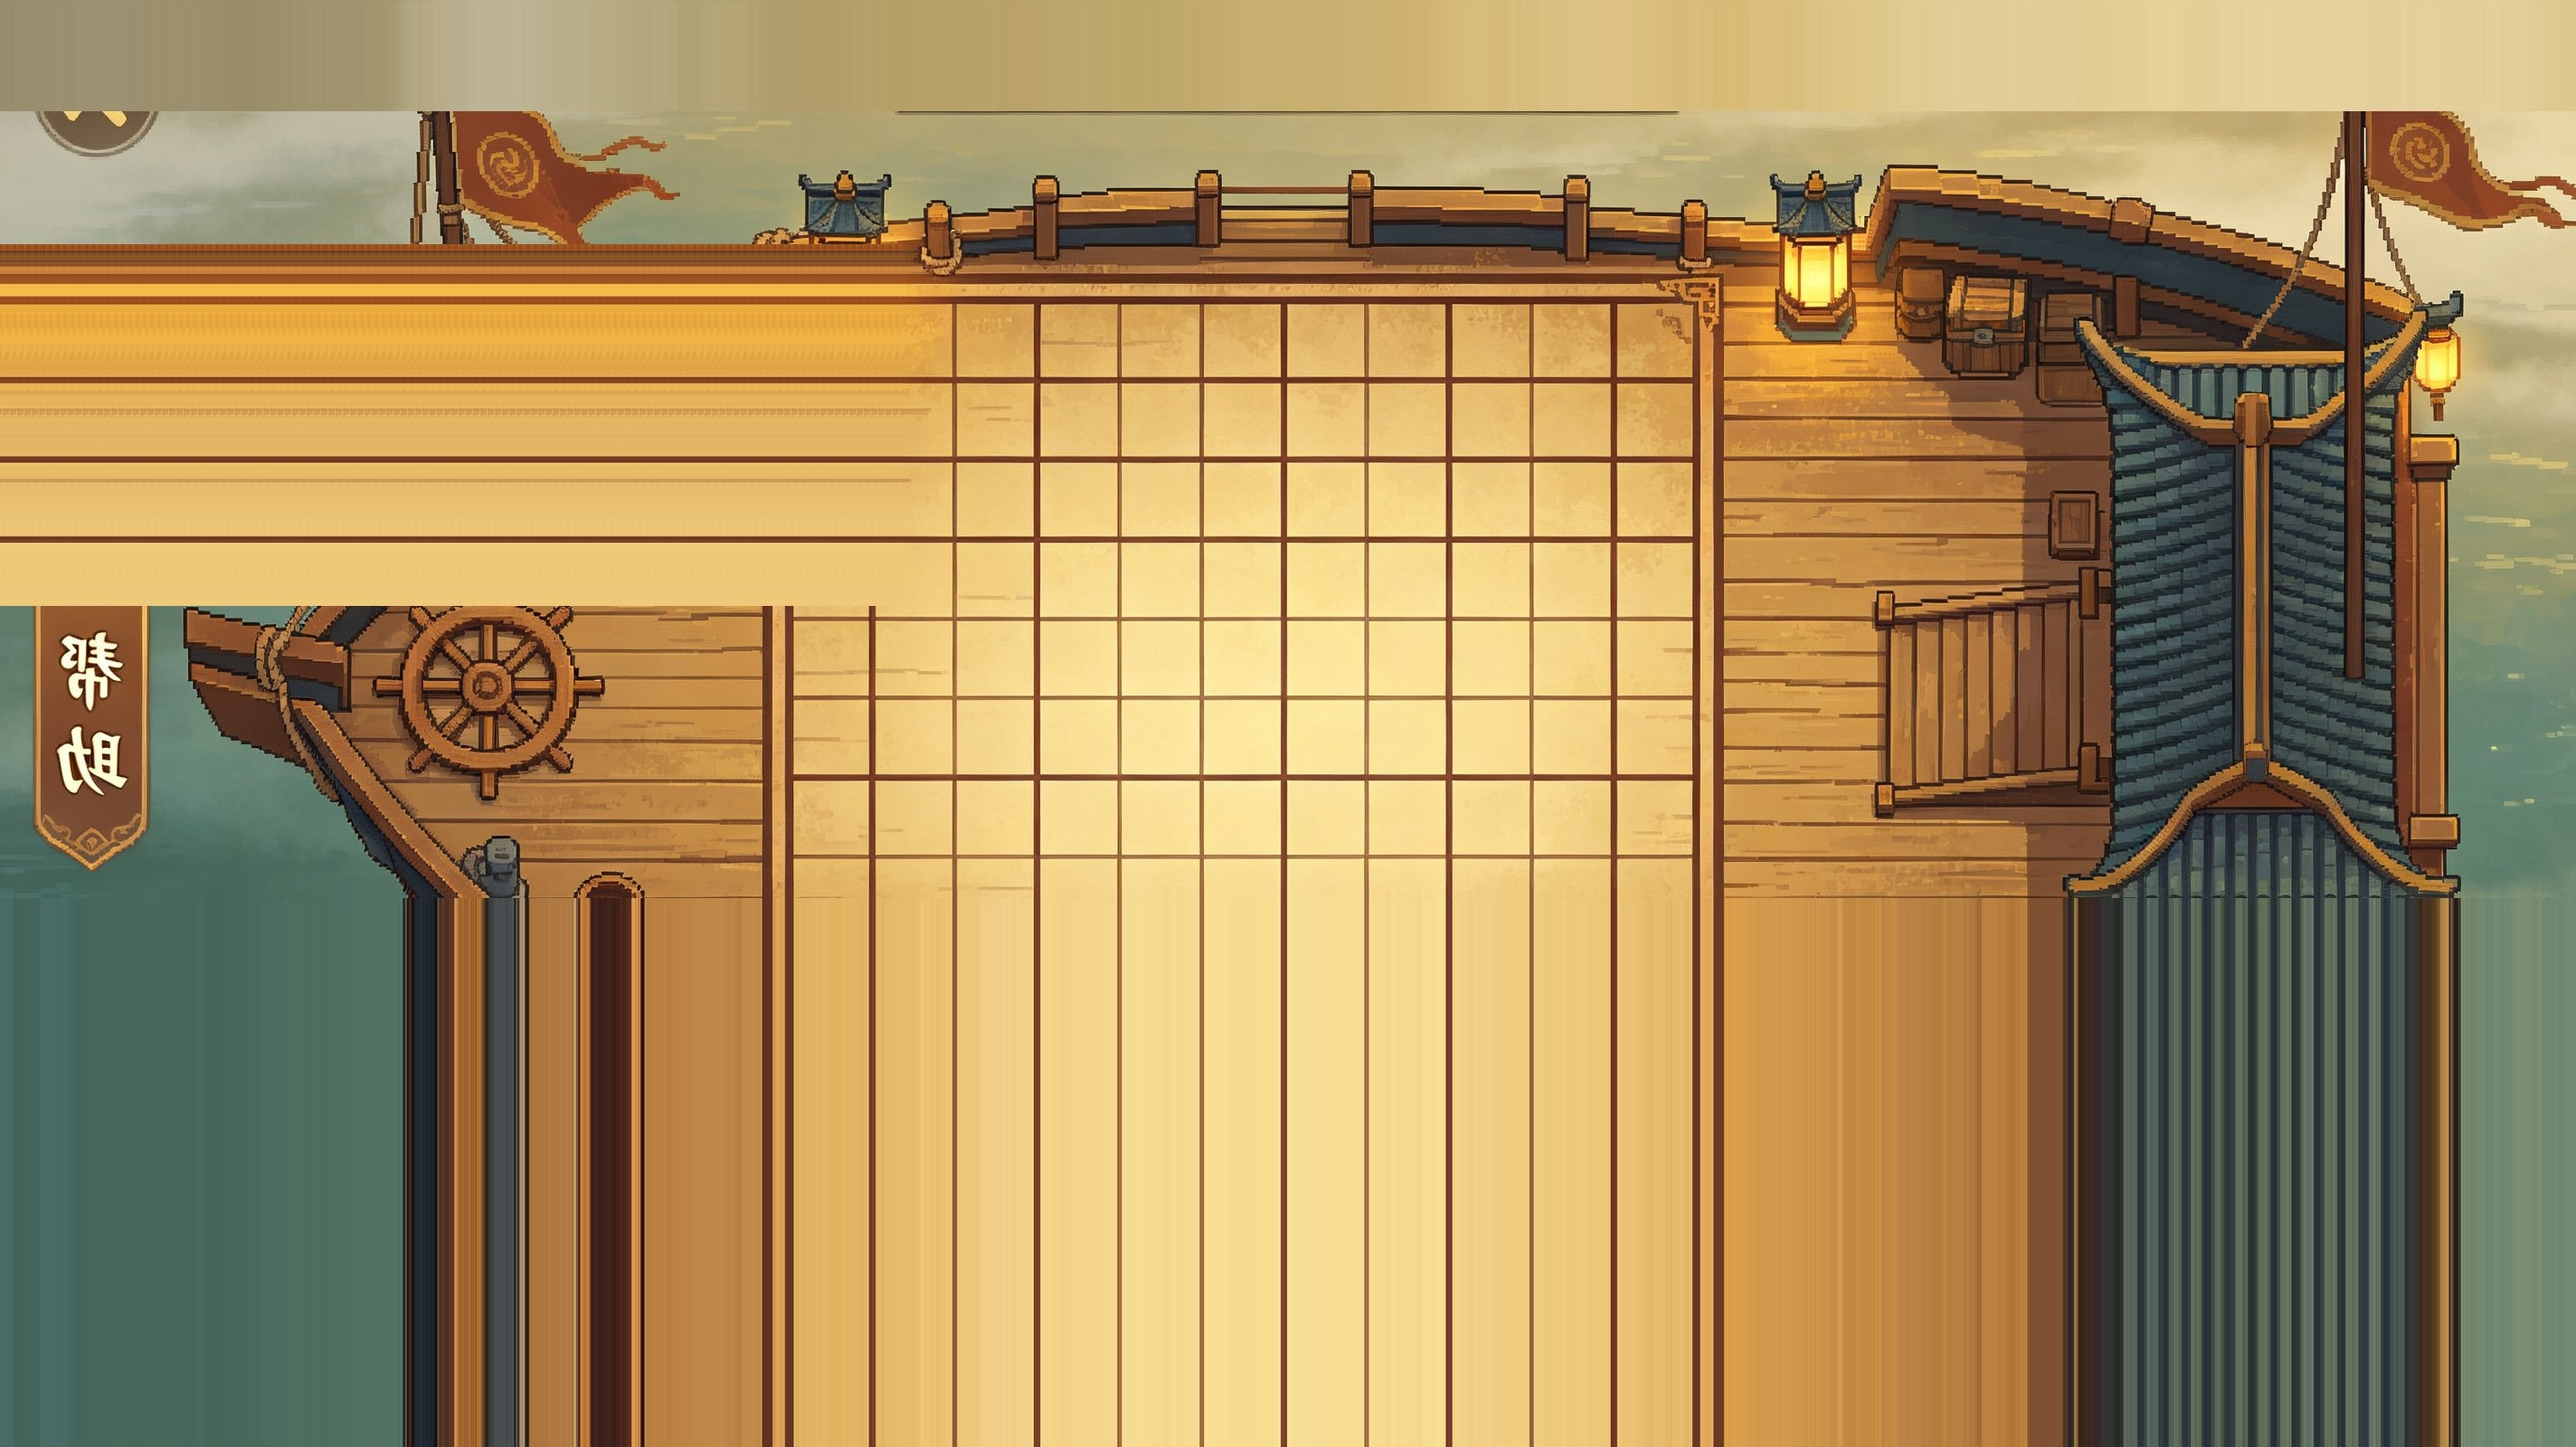
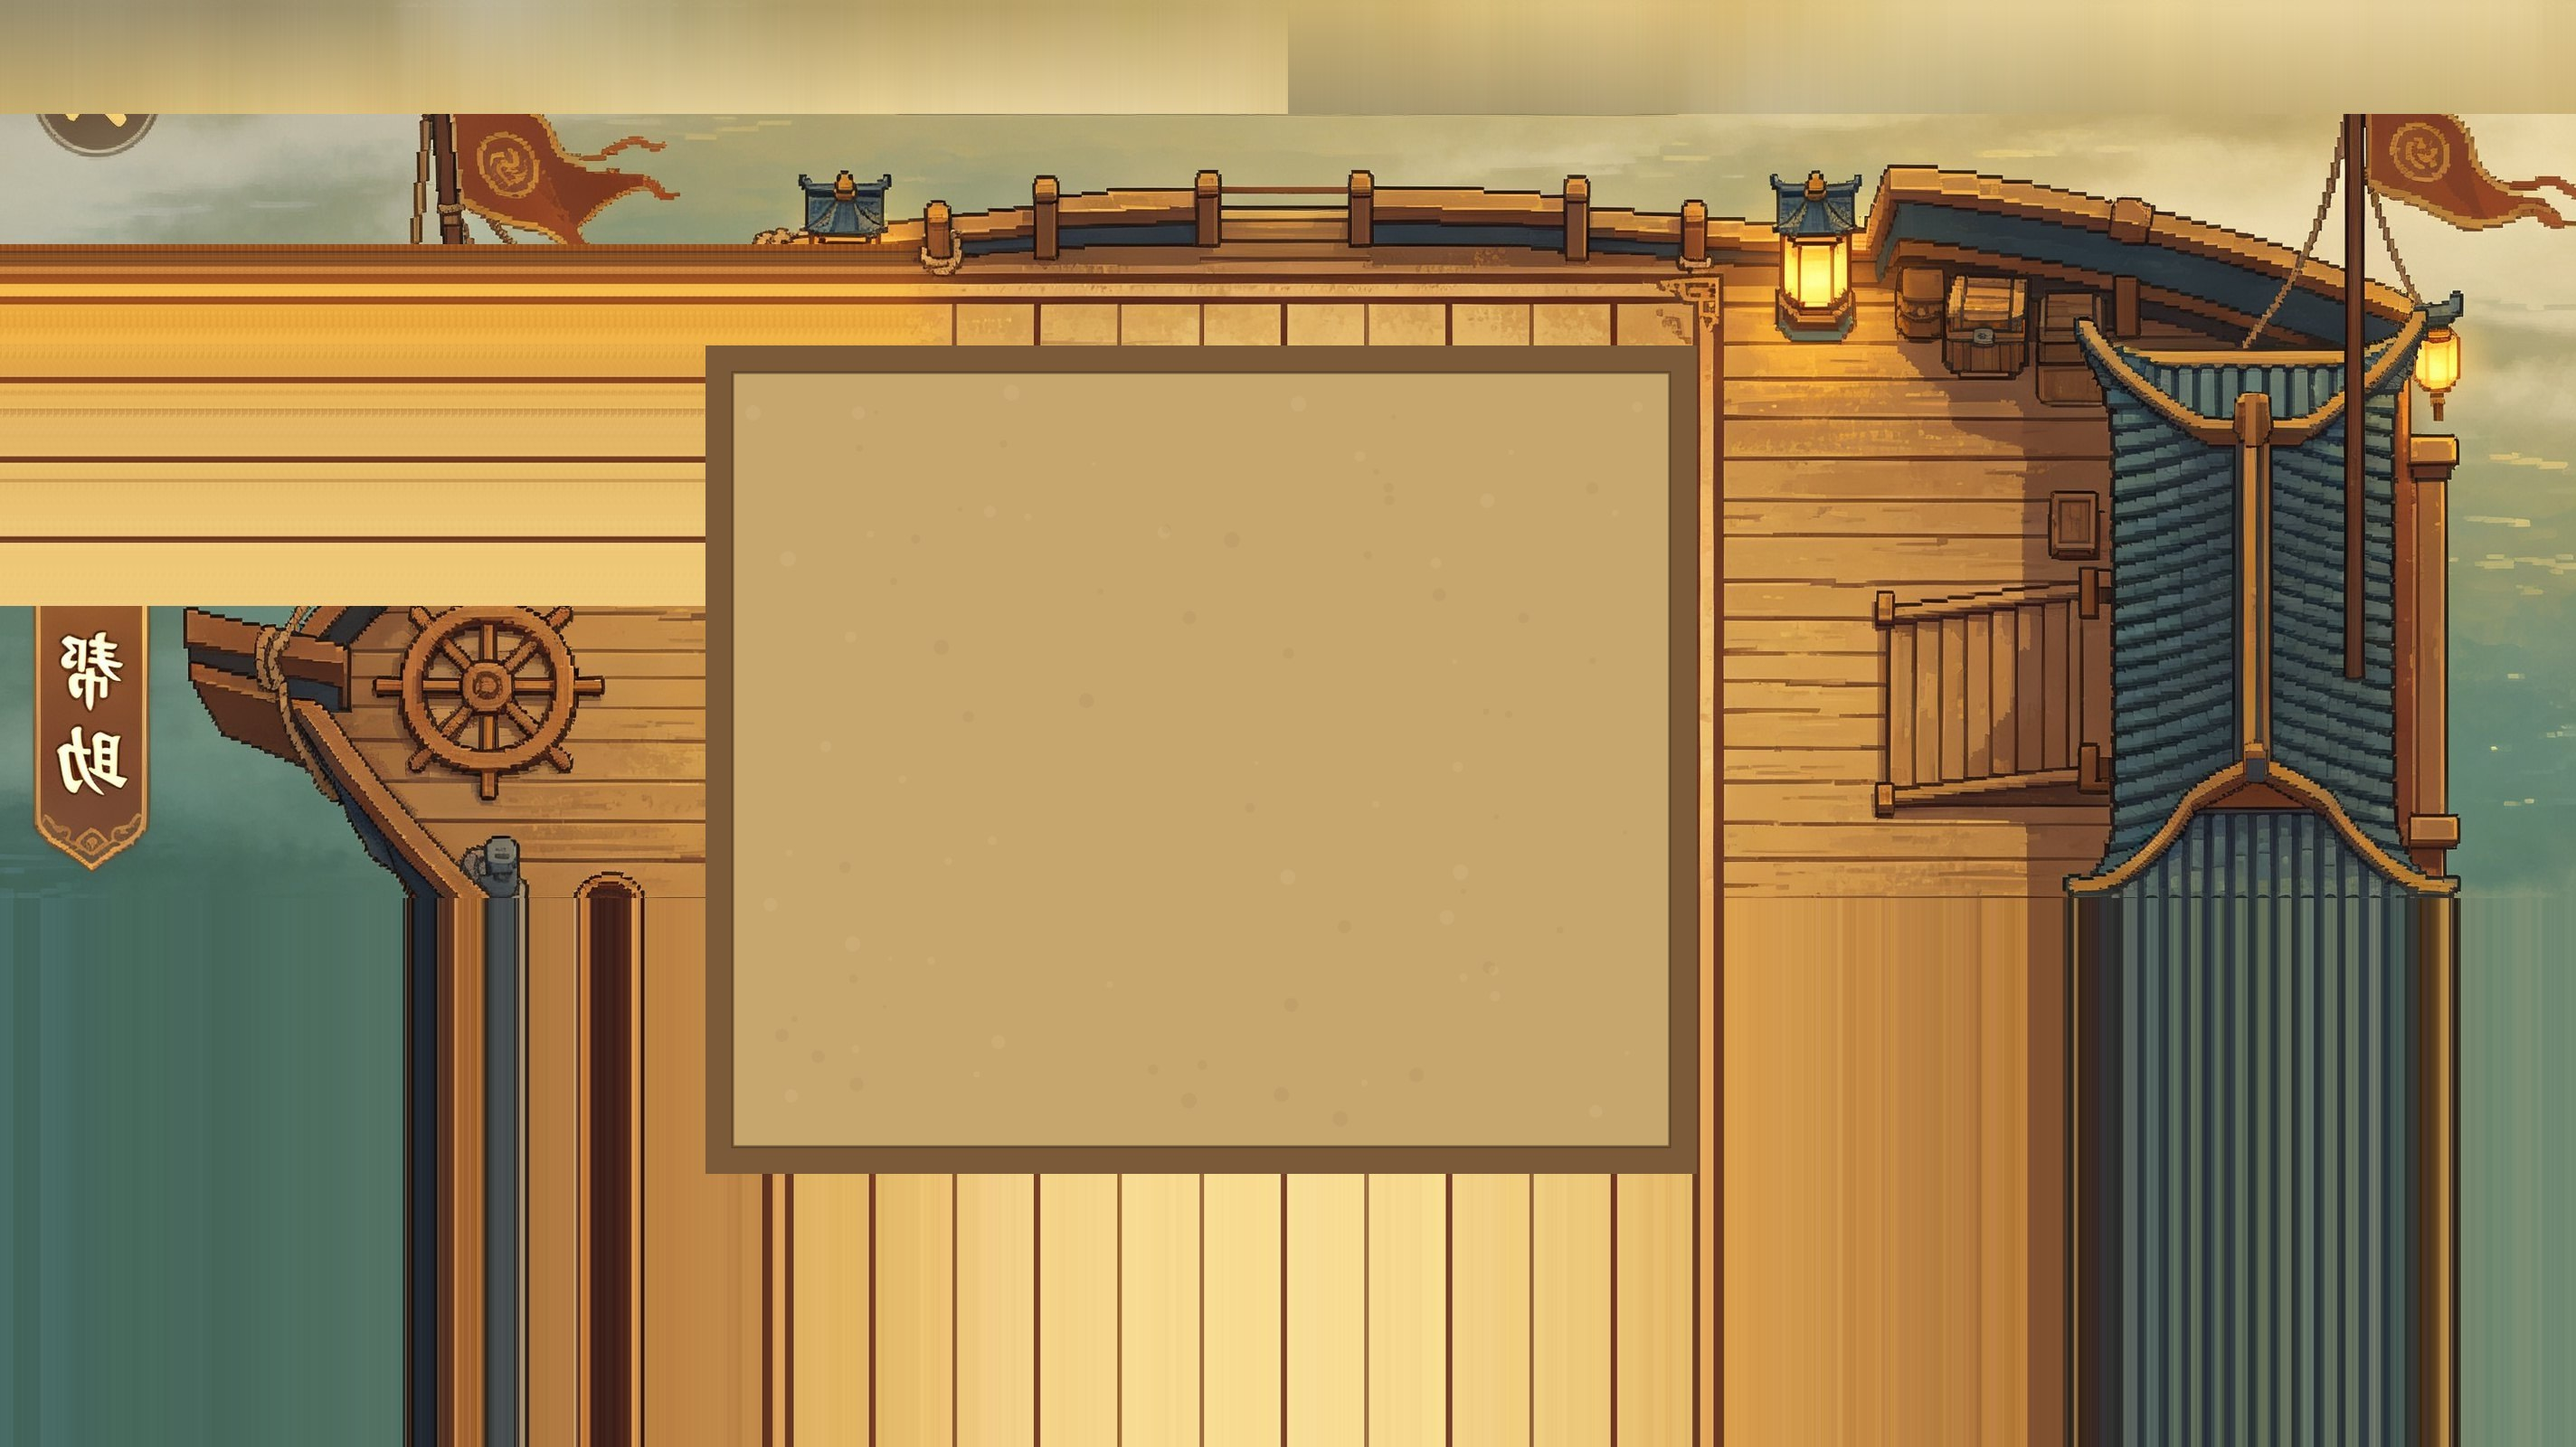
棋盘与背景一体化（消除拼接感）：抹除背景旧格线，木质内框+暖米黄面按真实棋盘重处理
- 背景资产重处理：镂空区内旧烙印格线全部清除，改为 30px 木质内框 +
  干净暖米黄面（取样自原格区中心色）+ 做旧噪点，可视棋盘面与真实 5x9
  网格大小对齐（格线仅由画布绘制，38% 透明度，与功能格完全对齐）
- 顶部天色带重做：按列垂直渐变替换单行拉伸，消除水平拉伸痕
- drawShip 精简为仅绘制网格线与极淡格位提示，棋盘底面完全交给背景，
  棋盘不再呈现为独立浮层，与甲板融为一体

Changed region(s): [[0.25, 0.2188, 0.6562, 0.8125], [0.0, 0.0312, 0.6875, 0.0938], [0.7188, 0.0312, 1.0, 0.0938]]

diff --git a/frontend/src/game/adou/boardMap.ts b/frontend/src/game/adou/boardMap.ts
@@ -95,60 +95,23 @@ function drawCellHints(scene: Phaser.Scene, geo: Geo, alpha: number, color = 0xf
 
 /* ─────────── 11 雾渡战船：船头朝左迎敌，棋盘嵌入甲板 ─────────── */
 function drawShip(scene: Phaser.Scene, geo: Geo, theme: BoardTheme) {
-  const rand = makeRand(111);
+  // 格区底面/木质内框全部由背景图提供（已按真实棋盘大小重处理），
+  // 画布内只绘制与功能网格完全对齐的网格线。
   const bw = geo.cols * geo.cw;
   const bh = geo.rows * geo.ch;
   const bLeft = Config.boardX;
   const bTop = Config.boardY;
-  const frame = 16;
-  const outerX = bLeft - frame;
-  const outerY = bTop - frame;
-  const outerW = bw + frame * 2;
-  const outerH = bh + frame * 2;
-  const cx = outerX + outerW / 2;
-  const cy = outerY + outerH / 2;
-
-  // 原生船木板边框（棋盘四周一圈木板，让底板看起来嵌进甲板）
-  scene.add.rectangle(cx, cy, outerW, outerH, 0x7a5326).setOrigin(0.5).setDepth(-24);
-  scene.add.rectangle(cx, cy, outerW, outerH, undefined).setOrigin(0.5).setStrokeStyle(2, 0x3c2610, 0.95).setDepth(-24);
-  scene.add.rectangle(cx, cy, outerW - 4, outerH - 4, undefined).setOrigin(0.5).setStrokeStyle(1.5, 0x2a1a0c, 0.7).setDepth(-24);
-  // 木板拼缝
-  for (let r = 1; r < 5; r += 1) {
-    scene.add.rectangle(cx, outerY + (outerH / 5) * r, outerW, 1.5, 0x4a2f14, 0.8).setOrigin(0.5).setDepth(-24);
-  }
-  for (let cIdx = 1; cIdx < 6; cIdx += 1) {
-    scene.add.rectangle(outerX + (outerW / 6) * cIdx, cy, 1.5, outerH, 0x4a2f14, 0.8).setOrigin(0.5).setDepth(-24);
-  }
-  // 铆钉
-  for (const [sx, sy] of [
-    [outerX + 6, outerY + 6], [outerX + outerW - 6, outerY + 6],
-    [outerX + 6, outerY + outerH - 6], [outerX + outerW - 6, outerY + outerH - 6],
-    [cx, outerY + 6], [cx, outerY + outerH - 6],
-    [outerX + 6, cy], [outerX + outerW - 6, cy],
-  ]) {
-    scene.add.circle(sx, sy, 2.2, 0x2a1a0c, 0.9).setDepth(-23);
-  }
-
-  // 凹面底板：暖米黄半透明，让船甲板木纹透出，而不是浮层
-  scene.add.rectangle(bLeft + bw / 2, bTop + bh / 2, bw, bh, 0xe6d5a8, 0.42).setOrigin(0.5).setDepth(-24);
-  scene.add.rectangle(bLeft + bw / 2, bTop + 2, bw, 3, 0x3a2410, 0.25).setOrigin(0.5).setDepth(-23);
-  scene.add.rectangle(bLeft + 2, bTop + bh / 2, 3, bh, 0x3a2410, 0.22).setOrigin(0.5).setDepth(-23);
-  // 木纹与甲板细节（低透明度，不喧宾夺主）
-  for (let i = 0; i < 26; i += 1) {
-    scene.add.circle(bLeft + 8 + rand() * (bw - 16), bTop + 8 + rand() * (bh - 16), 2 + rand() * 9, 0xbfa060, 0.14).setDepth(-24);
-  }
-  for (let i = 0; i < 12; i += 1) {
-    scene.add.rectangle(bLeft + rand() * bw, bTop + rand() * bh, 40 + rand() * 60, 1.5, 0x8a6a3a, 0.1).setOrigin(0.5).setDepth(-24).setAngle(rand() * 6 - 3);
-  }
-
-  // 网格线透明度 35%-40%
   for (let r = 1; r < geo.rows; r += 1) {
-    scene.add.rectangle(bLeft, bTop + r * geo.ch, bw, 1, 0x6a4a2a, 0.38).setOrigin(0, 0.5).setDepth(-23);
+    scene.add.rectangle(bLeft, bTop + r * geo.ch, bw, 1.6, 0x6a4a2a, 0.38).setOrigin(0, 0.5).setDepth(-16);
   }
   for (let c = 1; c < geo.cols; c += 1) {
-    scene.add.rectangle(bLeft + c * geo.cw, bTop, 1, bh, 0x6a4a2a, 0.38).setOrigin(0.5, 0).setDepth(-23);
+    scene.add.rectangle(bLeft + c * geo.cw, bTop, 1.6, bh, 0x6a4a2a, 0.38).setOrigin(0.5, 0).setDepth(-16);
   }
-  drawCellHints(scene, geo, theme.hintAlpha, 0x3a2a18);
+  for (let r = 0; r < geo.rows; r += 1) {
+    for (let c = 0; c < geo.cols; c += 1) {
+      scene.add.rectangle(bLeft + c * geo.cw + geo.cw / 2, bTop + r * geo.ch + geo.ch / 2, geo.cw - 10, geo.ch - 10, 0xffffff, 0.03).setOrigin(0.5).setDepth(-16);
+    }
+  }
 }
 export function createBoardMap(scene: Phaser.Scene, rows: number, cols: number) {
   const theme = getBoardTheme(currentBoardThemeId());
